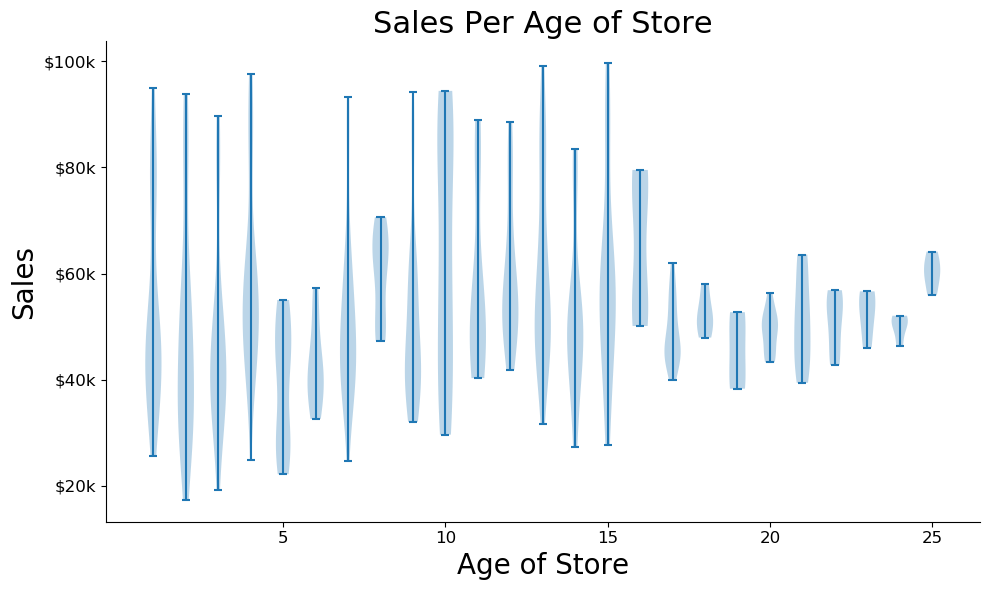
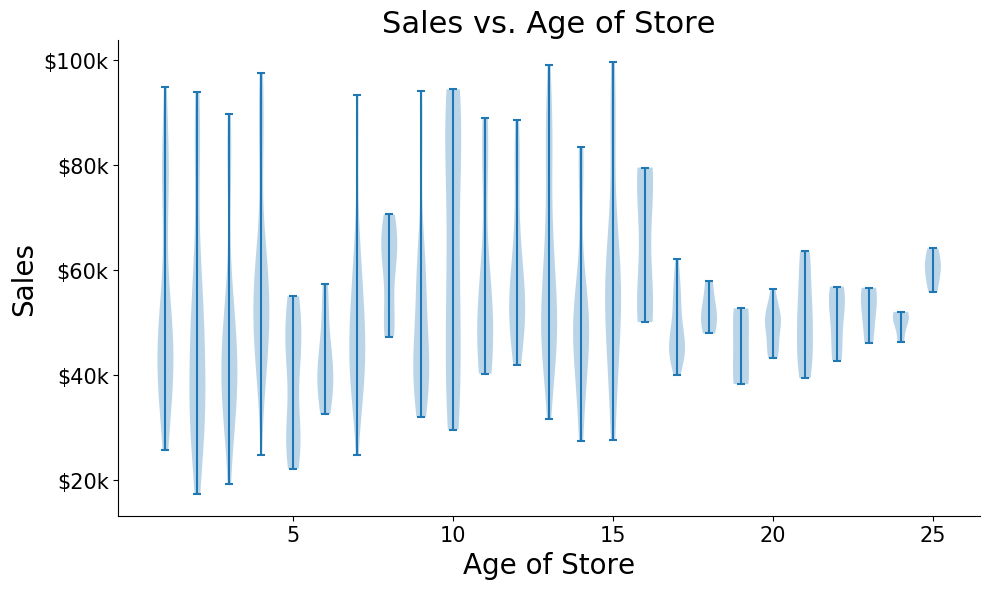
Cleaned graphs

diff --git a/plot.py b/plot.py
@@ -44,7 +44,7 @@ def plot_sales_per_location():
     )
     ax.set_xticklabels([])
     ax.set_ylabel("Sales", fontsize=20)
-    ax.set_title("Sales Per Location", fontsize=22)
+    ax.set_title("Sales per Location", fontsize=22)
     plt.tight_layout()
     plt.savefig(
         "SalesPerLocation.png", 
@@ -72,7 +72,7 @@ def plot_market_size():
     ax.tick_params(
         axis='both',
         which='both',
-        labelsize=12
+        labelsize=15
     )
 
     ax.set_yticklabels(
@@ -83,7 +83,7 @@ def plot_market_size():
         ]
     )
     ax.set_ylabel("Sales", fontsize=20)
-    ax.set_title("Sales Per Market Size", fontsize=22)
+    ax.set_title("Sales vs. Market Size", fontsize=22)
     plt.tight_layout()
     plt.savefig(
         "SalesMarketSize.png", 
@@ -124,11 +124,11 @@ def plot_store_age():
     ax.tick_params(
         axis='both',
         which='both',
-        labelsize=12
+        labelsize=15
     )
     ax.set_ylabel("Sales", fontsize=20)
     ax.set_xlabel("Age of Store", fontsize=20)
-    ax.set_title("Sales Per Age of Store", fontsize=22)
+    ax.set_title("Sales vs. Age of Store", fontsize=22)
     plt.tight_layout()
     plt.savefig(
         "SalesStoreAge.png", 

diff --git a/README.md b/README.md
@@ -77,7 +77,7 @@ After training the model, we can look at the how the training and validation per
 ### Results
 
 
-Although the model is only able to reach 80% accuracy, the model does perform well. When applying the model to the entire dataset, we see that the model is more likely to give the false positive of predicting customer churn when in fact there is no churn.
+Although the model is only able to reach 80% accuracy, the model does perform well. When applying the model to the entire dataset, we see that the model is more likely to give the false positive of predicting no customer churn when in fact there is churn.
 
 ![alt text](https://raw.githubusercontent.com/tnorlund/CustomerAnalytics/master/Confusion.png "Confusion Matrix")
 
